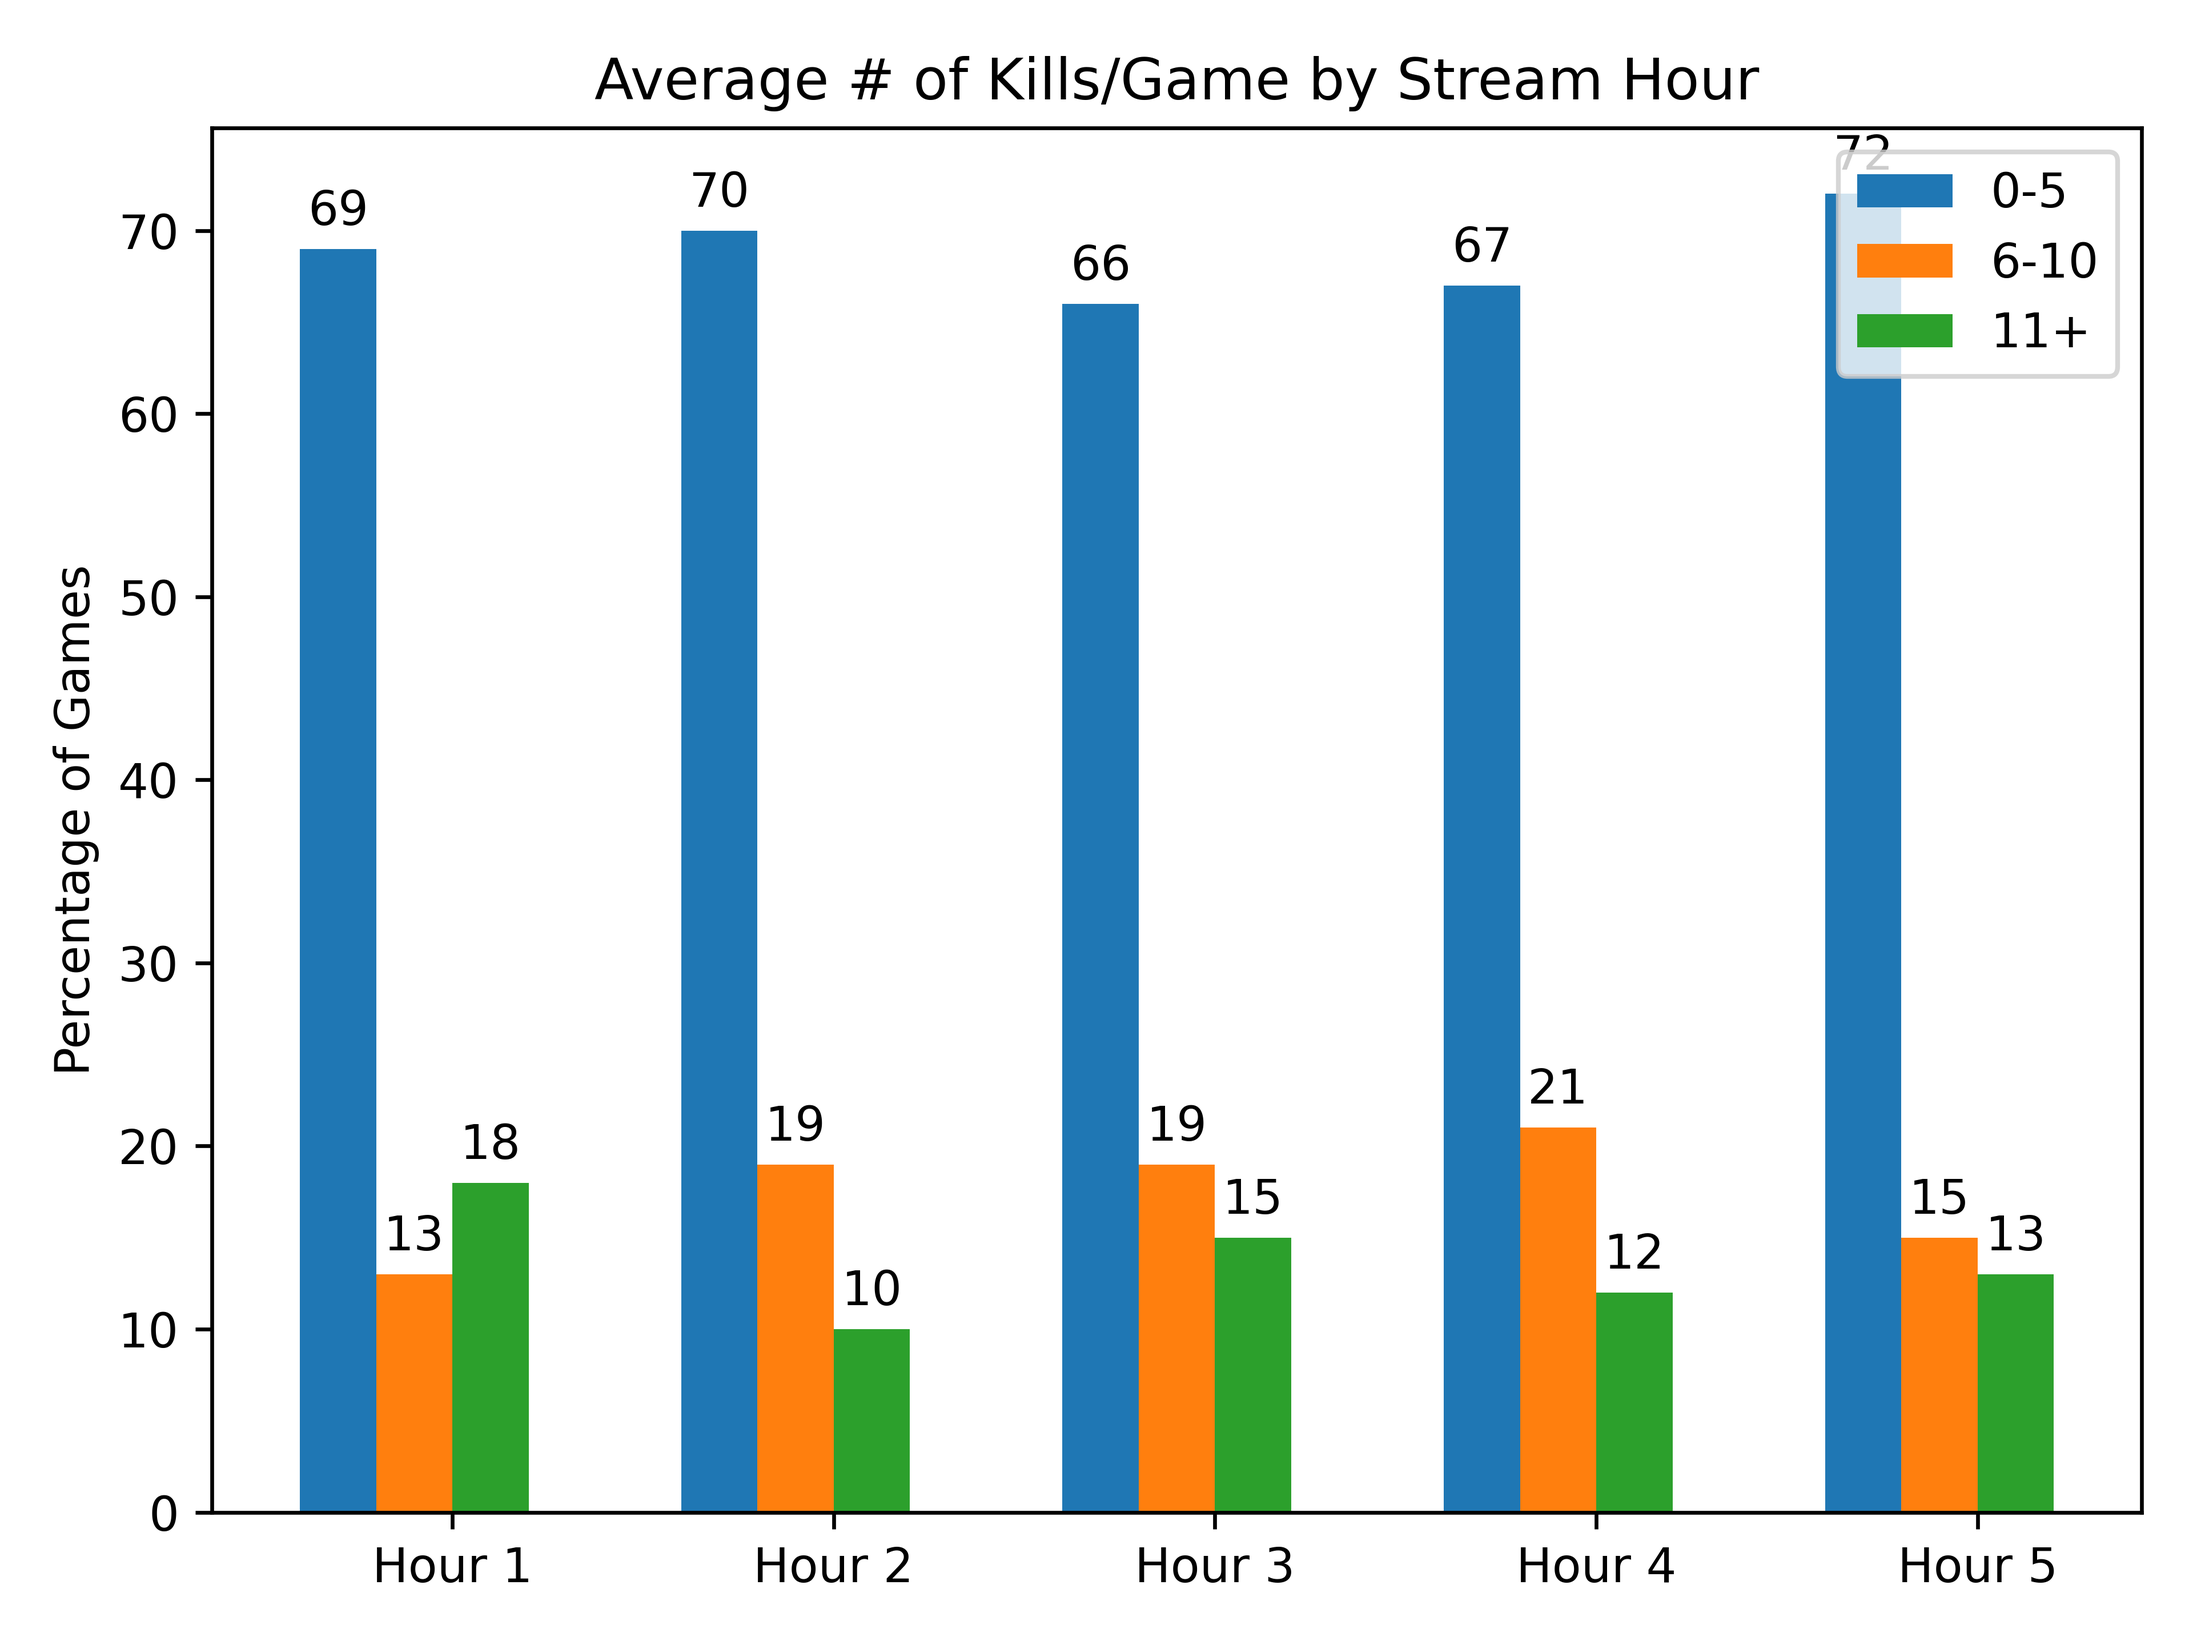
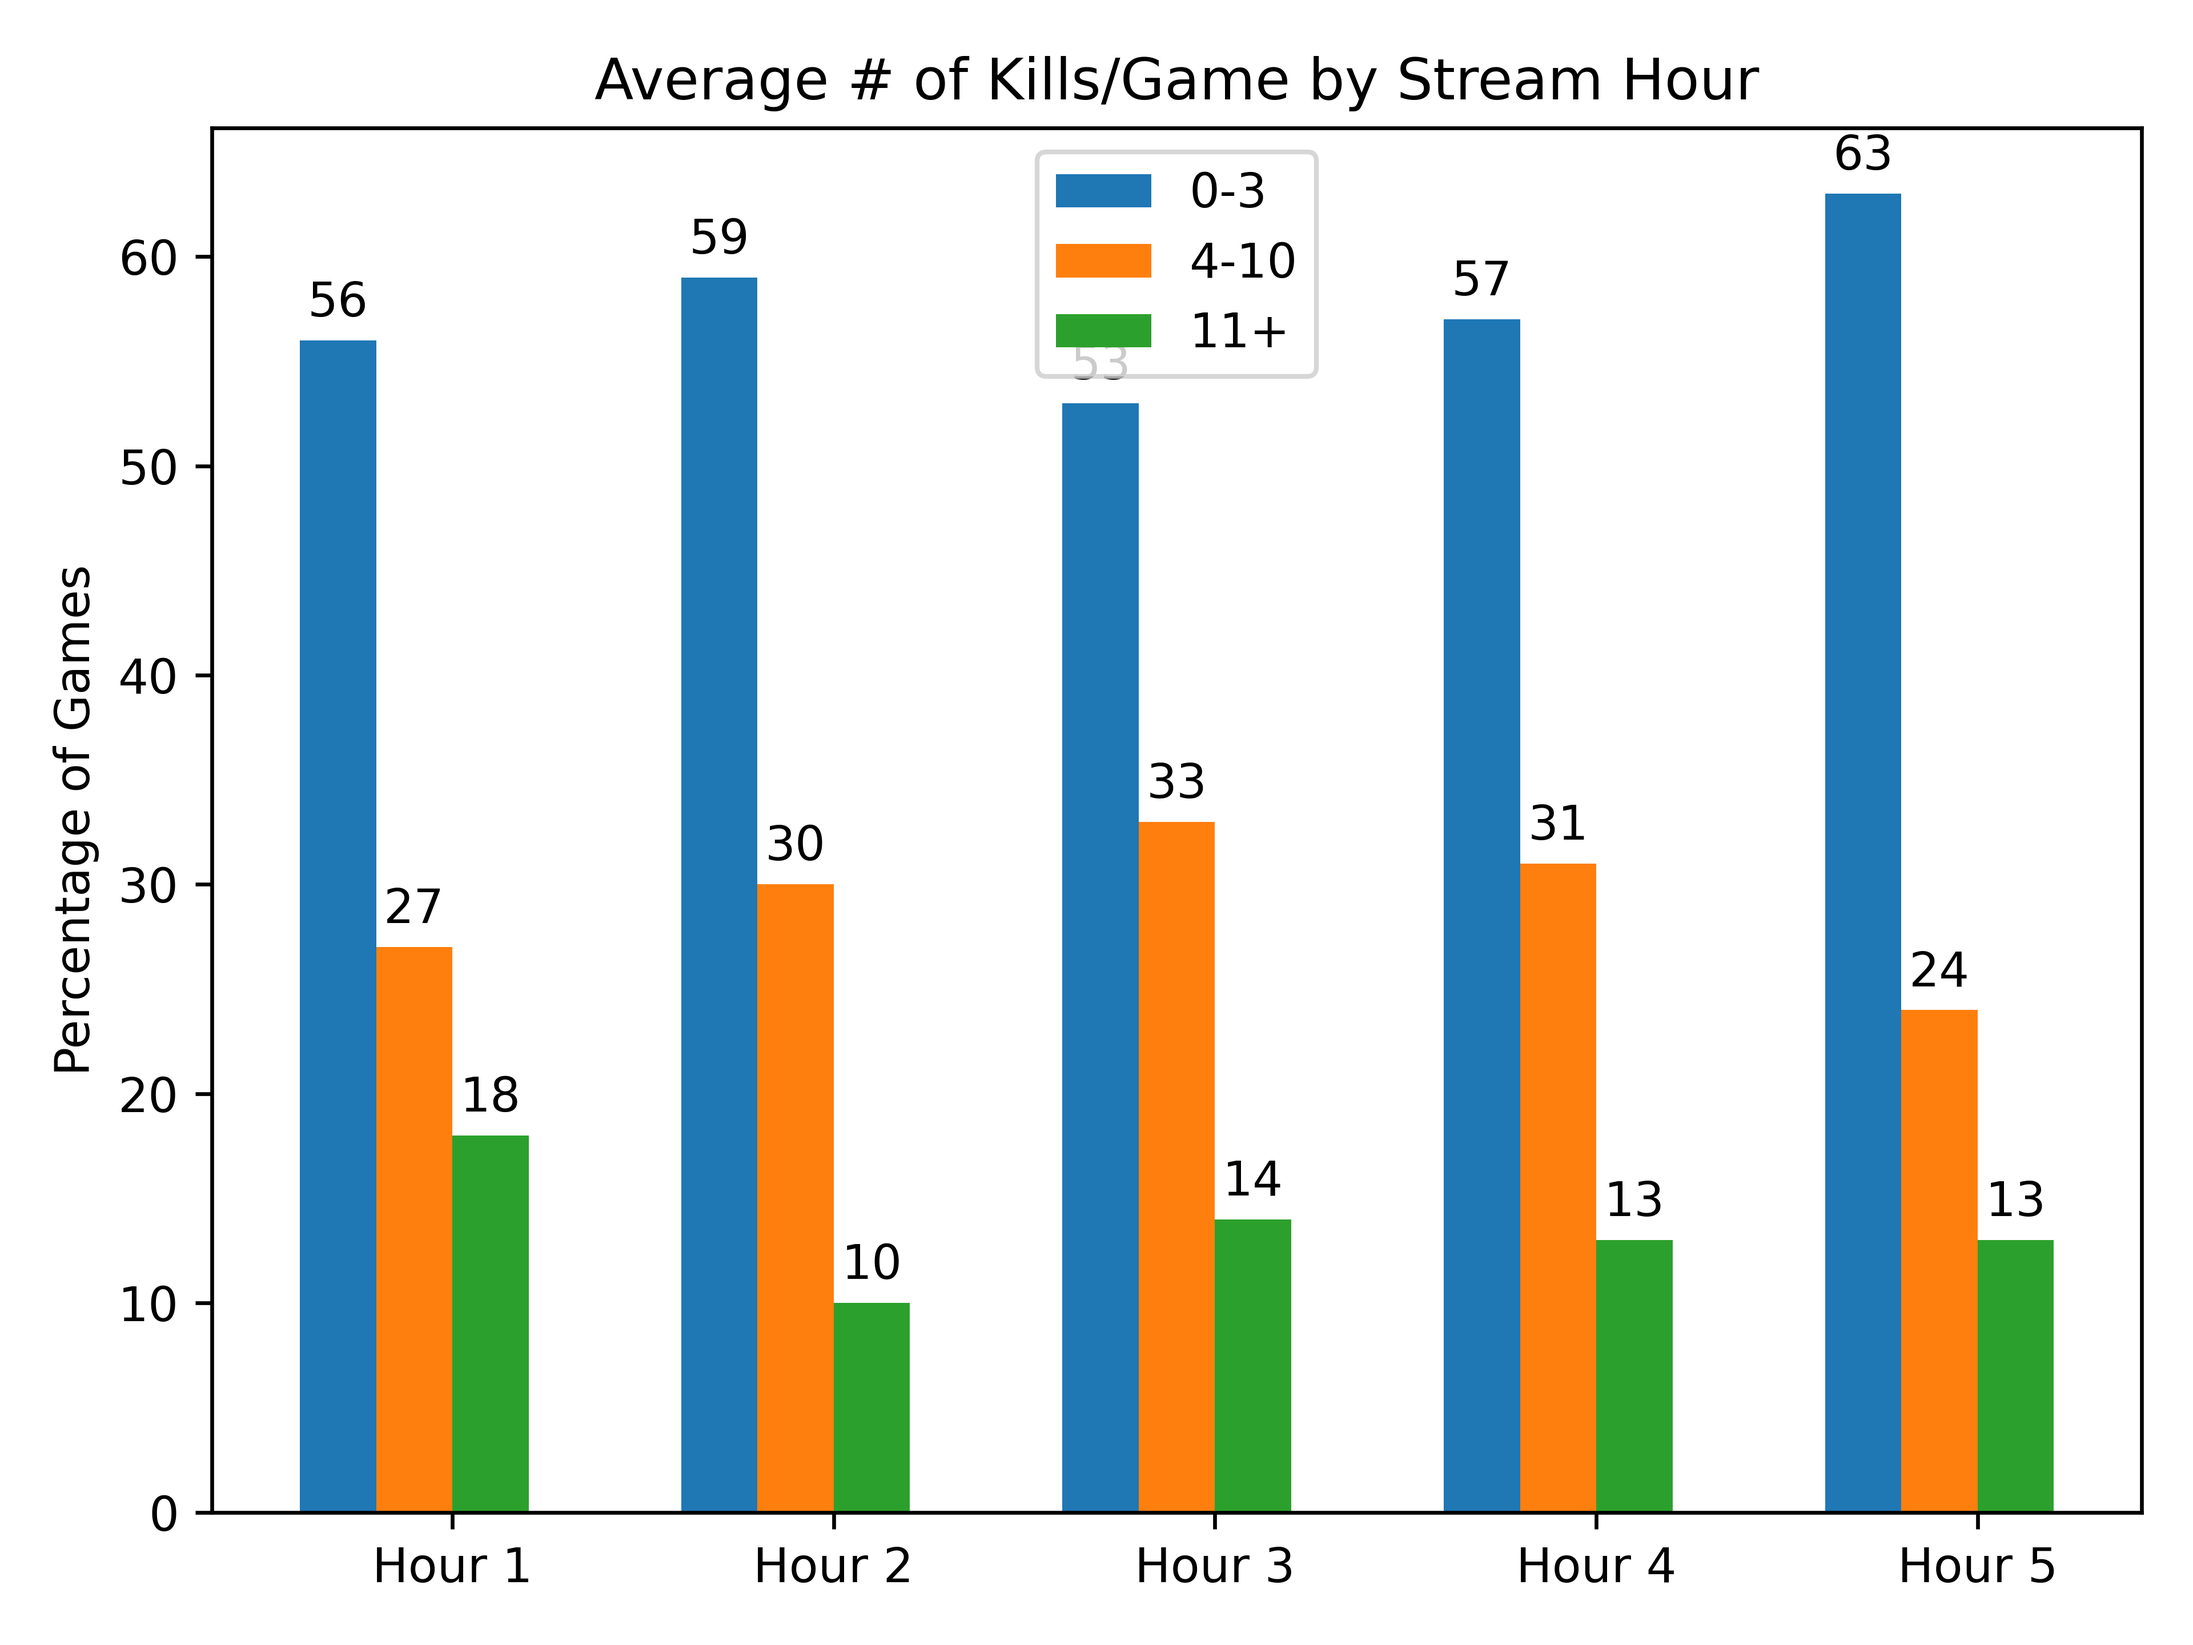
new kill cutoffs, also latest match data

diff --git a/babagstats.py b/babagstats.py
@@ -154,7 +154,7 @@ def getKillsPerWeekday(gameList):
     for game in gameList:
         curr_num_kills = game['participant']['stats']['combat']['kda']['kills']
         curr_game_kills_type = -1
-        if curr_num_kills <= 5:
+        if curr_num_kills <= 3:
             curr_game_kills_type = 0
         elif curr_num_kills <= 10:
             curr_game_kills_type = 1
@@ -181,8 +181,8 @@ def plotKillsPerWeekday(killsPerWeekday):
     x = np.arange(len(labels))
     width = 0.20
     fig, ax = plt.subplots()
-    rects1 = ax.bar(x - width * 1.5, type0games, width, label='0-5')
-    rects2 = ax.bar(x - width / 2, type1games, width, label='6-10')
+    rects1 = ax.bar(x - width * 1.5, type0games, width, label='0-3')
+    rects2 = ax.bar(x - width / 2, type1games, width, label='4-10')
     rects3 = ax.bar(x + width / 2, type2games, width, label='11+')
     ax.set_ylabel('Percentage of Games')
     ax.set_title('Average # of Kills/Game by Weekday')
@@ -203,7 +203,7 @@ def getKillsPerHour(gameList):
         curr_game_hour = curr_game_date.hour
         curr_num_kills = game['participant']['stats']['combat']['kda']['kills']
         curr_game_kills_type = -1
-        if curr_num_kills <= 5:
+        if curr_num_kills <= 3:
             curr_game_kills_type = 0
         elif curr_num_kills <= 10:
             curr_game_kills_type = 1
@@ -225,8 +225,8 @@ def plotKillsPerHour(killsPerHour):
     x = np.arange(len(labels))
     width = 0.20
     fig, ax = plt.subplots()
-    rects1 = ax.bar(x - width * 1.5, type0games, width, label='0-5')
-    rects2 = ax.bar(x - width / 2, type1games, width, label='6-10')
+    rects1 = ax.bar(x - width * 1.5, type0games, width, label='0-3')
+    rects2 = ax.bar(x - width / 2, type1games, width, label='4-10')
     rects3 = ax.bar(x + width / 2, type2games, width, label='11+')
     ax.set_ylabel('Percentage of Games')
     ax.set_title('Average # of Kills/Game by Stream Hour')
@@ -253,19 +253,19 @@ def genReadme(gameList):
         datetime.strptime(getNewestGame(gameList)['started_at'],
                           date_fmt).strftime('%b %d %Y') + ")\n")
     readme.write(
-        "|Map|Image| 0-5 | 6-10 | 11+ |\n| :-: | :-: | :-: | :--: | :-: |\n")
+        "|Map|Image| 0-3 | 4-10 | 11+ |\n| :-: | :-: | :-: | :--: | :-: |\n")
     for gameMap in sorted(killsPerMap,
                           key=lambda k: len(killsPerMap[k]),
                           reverse=True):
         gameMapData = killsPerMap[gameMap]
         if (len(gameMapData) < num_games_on_map_cutoff):
             continue
-        zeroToFive = 0
+        zeroToThree = 0
         SixToTen = 0
         ElevenPlus = 0
         for game in gameMapData:
-            if game <= 5:
-                zeroToFive += 1
+            if game <= 3:
+                zeroToThree += 1
             elif game <= 10:
                 SixToTen += 1
             else:
@@ -274,7 +274,7 @@ def genReadme(gameList):
                      str(len(gameMapData)) + " games)** | <img src=\"img/" +
                      mapImgTranslate[gameMap] +
                      "\" width=\"250\"/> | " +
-                     str(round(zeroToFive / len(gameMapData) * 100, 2)) +
+                     str(round(zeroToThree / len(gameMapData) * 100, 2)) +
                      "% | " +
                      str(round(SixToTen / len(gameMapData) * 100, 2)) +
                      "% | " +

diff --git a/README.md b/README.md
@@ -1,14 +1,14 @@
 # Forsen BabaG Stats
-##### 649 Games (Mar 27 2022 - May 16 2022)
-|Map|Image| 0-5 | 6-10 | 11+ |
+##### 661 Games (Mar 27 2022 - May 17 2022)
+|Map|Image| 0-3 | 4-10 | 11+ |
 | :-: | :-: | :-: | :--: | :-: |
-| **Miramar<br>(192 games)** | <img src="img/Miramar_EN.webp" width="250"/> | 66.15% | 22.4% | 11.46% |
-| **Erangel (Remastered)<br>(162 games)** | <img src="img/Pubg_erangel_new.jpg" width="250"/> | 61.73% | 17.28% | 20.99% |
-| **Taego<br>(155 games)** | <img src="img/taego.jpg" width="250"/> | 67.74% | 17.42% | 14.84% |
-| **Karakin<br>(48 games)** | <img src="img/Karakin_Map.webp" width="250"/> | 87.5% | 10.42% | 2.08% |
-| **Sanhok<br>(45 games)** | <img src="img/Sanhok-map.webp" width="250"/> | 80.0% | 15.56% | 4.44% |
-| **Haven<br>(35 games)** | <img src="img/Heaven_Minimap.webp" width="250"/> | 71.43% | 22.86% | 5.71% |
-| **Vikendi<br>(12 games)** | <img src="img/Vikendi_Map.webp" width="250"/> | 83.33% | 0.0% | 16.67% |
+| **Miramar<br>(193 games)** | <img src="img/Miramar_EN.webp" width="250"/> | 54.92% | 33.16% | 11.92% |
+| **Erangel (Remastered)<br>(166 games)** | <img src="img/Pubg_erangel_new.jpg" width="250"/> | 51.2% | 28.31% | 20.48% |
+| **Taego<br>(160 games)** | <img src="img/taego.jpg" width="250"/> | 57.5% | 27.5% | 15.0% |
+| **Karakin<br>(48 games)** | <img src="img/Karakin_Map.webp" width="250"/> | 77.08% | 20.83% | 2.08% |
+| **Sanhok<br>(47 games)** | <img src="img/Sanhok-map.webp" width="250"/> | 68.09% | 27.66% | 4.26% |
+| **Haven<br>(35 games)** | <img src="img/Heaven_Minimap.webp" width="250"/> | 57.14% | 37.14% | 5.71% |
+| **Vikendi<br>(12 games)** | <img src="img/Vikendi_Map.webp" width="250"/> | 58.33% | 25.0% | 16.67% |
 
 |Kills By Weekday|Kills By Hour|
 | :-: | :-: |
